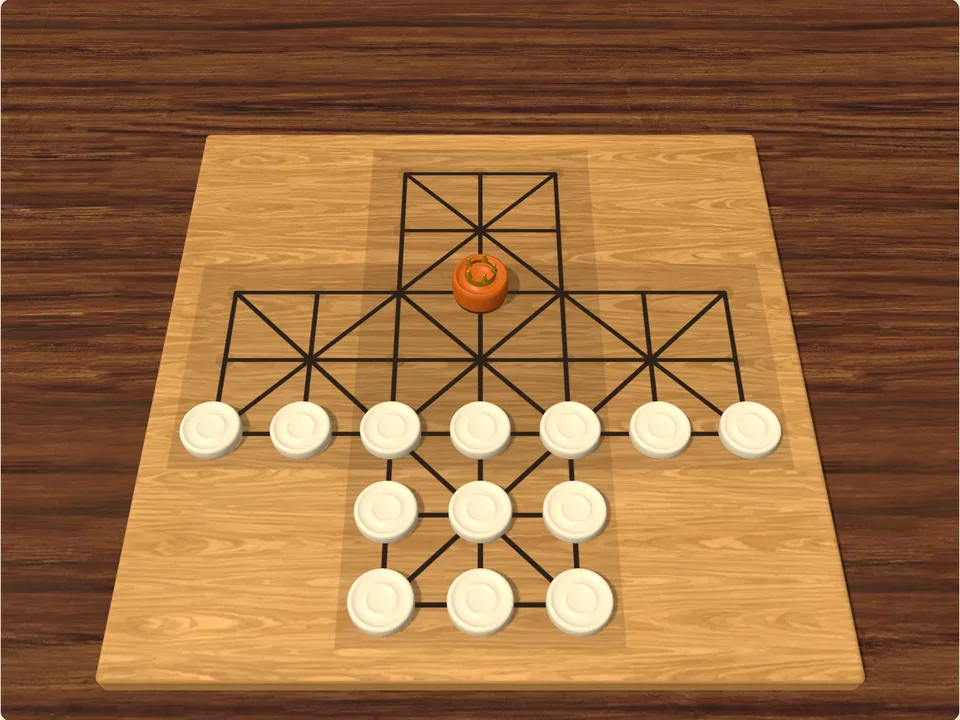
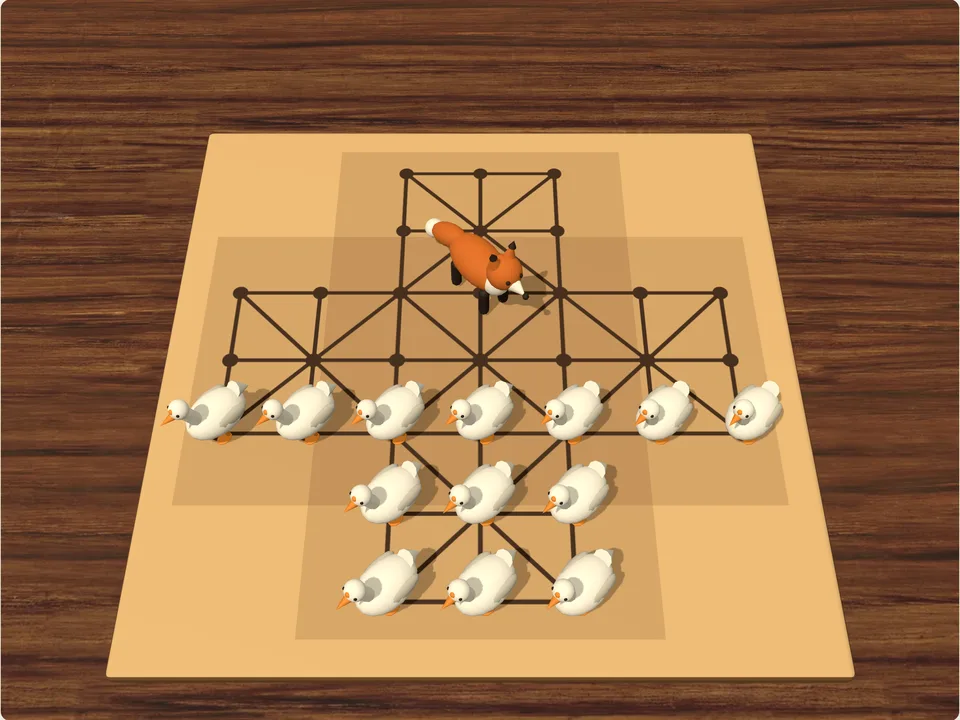
Fox and geese: modelled geese and a fox on a board of their own
Claude-Session: https://claude.ai/code/session_01Uedx1uYtd54DPXXtQh77nN

diff --git a/src/games/foxgeese/view.ts b/src/games/foxgeese/view.ts
@@ -1,0 +1,204 @@
+import * as T from "three";
+import { planks, block } from "../../engine/scene-utils";
+import type { Marks } from "../points/view";
+import { TableView, ringMesh, type Spot, type TableSubject } from "../table/view";
+import { LINKS, POINTS, type State } from "./rules";
+
+const STEP = 1.0;
+export const GOOSE = "#f4f1e8",
+  FOX = "#d2691e";
+export const FOX_SUBJECT: TableSubject = { half: 4.0, halfZ: 4.0, height: 0.9, lookY: 0, tilt: 1.0 };
+/** Where a point of the cross lies on the board. */
+export const pointAt = (i: number) => ({ x: (POINTS[i].col - 3) * STEP, z: (POINTS[i].row - 3) * STEP });
+/** The board's top: the cross a shade darker than the wood round it, its lines and points burnt in. */
+function boardTexture() {
+  const size = 1024,
+    c = document.createElement("canvas");
+  c.width = c.height = size;
+  const ctx = c.getContext("2d")!,
+    u = size / 7.6,
+    px = (i: number) => {
+      const p = pointAt(i);
+      return [size / 2 + (p.x / STEP) * u, size / 2 + (p.z / STEP) * u] as [number, number];
+    };
+  ctx.fillStyle = "#d9b27c";
+  ctx.fillRect(0, 0, size, size);
+  ctx.fillStyle = "rgba(90, 52, 22, 0.16)";
+  ctx.fillRect(size / 2 - 1.5 * u - u * 0.4, size / 2 - 3 * u - u * 0.4, 3 * u + u * 0.8, 6 * u + u * 0.8);
+  ctx.fillRect(size / 2 - 3 * u - u * 0.4, size / 2 - 1.5 * u - u * 0.4, 6 * u + u * 0.8, 3 * u + u * 0.8);
+  ctx.strokeStyle = "#3a2414";
+  ctx.lineWidth = 7;
+  ctx.lineCap = "round";
+  for (const [a, b] of LINKS) {
+    ctx.beginPath();
+    ctx.moveTo(...px(a));
+    ctx.lineTo(...px(b));
+    ctx.stroke();
+  }
+  ctx.fillStyle = "#3a2414";
+  POINTS.forEach((_, i) => {
+    ctx.beginPath();
+    ctx.arc(...px(i), 13, 0, Math.PI * 2);
+    ctx.fill();
+  });
+  const t = new T.CanvasTexture(c);
+  t.colorSpace = T.SRGBColorSpace;
+  t.anisotropy = 8;
+  return t;
+}
+/** A cross of 33 points cut into a board on a table, with thirteen modelled geese and a fox. */
+export class FoxGeeseView extends TableView<State> {
+  private geese: T.Group[] = [];
+  private fox: T.Group;
+  private rings: T.Mesh[] = [];
+  private cursor: T.Mesh;
+  private chosen: T.Mesh;
+  constructor(host: HTMLElement, quality: "high" | "low") {
+    super(host, quality, "#4b3626");
+    this.daylight("#fff6e0", "#4a3a2c", "#fff1d6", 7);
+    const table = this.add(new T.PlaneGeometry(90, 90), this.standard(planks(11, (r) => this.own(r))), 0, -0.2, 0);
+    table.rotation.x = -Math.PI / 2;
+    table.castShadow = false;
+    const edge = this.standard({ color: "#6a4a2c", roughness: 0.6 });
+    this.add(block(7.6 * STEP, 0.2, 7.6 * STEP, 0.08), [edge, edge, this.standard({ map: this.own(boardTexture()), roughness: 0.7 }), edge, edge, edge], 0, -0.1, 0);
+    // Larger than life on the board, and turned three-quarters toward me so that their faces are seen.
+    for (let k = 0; k < 13; k++) {
+      const goose = this.goose();
+      goose.scale.setScalar(1.5);
+      goose.rotation.y = Math.PI - 0.75;
+      this.geese.push(goose);
+    }
+    this.fox = this.vixen();
+    this.fox.scale.setScalar(1.65);
+    this.fox.rotation.y = 0.65;
+    this.scene.add(...this.geese, this.fox);
+    const own = <R extends { dispose(): void }>(r: R) => this.own(r);
+    POINTS.forEach(() => {
+      const ring = ringMesh(own, 0.32, 0.4, "#ffd24a");
+      this.rings.push(ring);
+      this.scene.add(ring);
+    });
+    this.cursor = ringMesh(own, 0.42, 0.48, "#ffffff");
+    this.chosen = ringMesh(own, 0.32, 0.42, "#ff8a3c");
+    this.scene.add(this.cursor, this.chosen);
+    this.begin();
+  }
+  private part(group: T.Group, geometry: T.BufferGeometry, material: T.Material, x: number, y: number, z: number, sx = 1, sy = 1, sz = 1) {
+    const mesh = this.add(geometry, material, x, y, z, group);
+    mesh.scale.set(sx, sy, sz);
+    return mesh;
+  }
+  /** A white goose standing, facing up the board (−z): a round body, a long neck, an orange beak and feet. */
+  private goose() {
+    const g = new T.Group(),
+      down = this.standard({ color: "#f6f3ea", roughness: 0.85 }),
+      grey = this.standard({ color: "#c9c4b8", roughness: 0.85 }),
+      orange = this.standard({ color: "#e8892a", roughness: 0.55 }),
+      dark = this.standard({ color: "#1d1b19", roughness: 0.4 }),
+      part = (...args: [T.BufferGeometry, T.Material, number, number, number, number?, number?, number?]) => this.part(g, ...args);
+    part(new T.SphereGeometry(0.2, 18, 12), down, 0, 0.26, 0.04, 0.85, 0.75, 1.25);
+    // Folded wings, a little greyer, and a short raised tail.
+    for (const side of [-1, 1]) part(new T.SphereGeometry(0.12, 12, 8), grey, side * 0.12, 0.29, 0.08, 0.4, 0.6, 1.3);
+    part(new T.ConeGeometry(0.07, 0.16, 10), down, 0, 0.32, 0.3).rotation.x = Math.PI / 2 + 0.6;
+    const neck = part(new T.CapsuleGeometry(0.05, 0.2, 4, 10), down, 0, 0.47, -0.15);
+    neck.rotation.x = -0.35;
+    part(new T.SphereGeometry(0.075, 14, 10), down, 0, 0.62, -0.2);
+    part(new T.ConeGeometry(0.035, 0.12, 10), orange, 0, 0.6, -0.31).rotation.x = -Math.PI / 2;
+    part(new T.SphereGeometry(0.025, 8, 6), orange, 0, 0.65, -0.25);
+    for (const side of [-1, 1]) {
+      part(new T.SphereGeometry(0.014, 8, 6), dark, side * 0.05, 0.64, -0.24);
+      part(new T.CylinderGeometry(0.018, 0.018, 0.12, 6), orange, side * 0.07, 0.07, 0.04);
+      part(new T.SphereGeometry(0.06, 10, 6), orange, side * 0.07, 0.012, -0.0, 0.8, 0.2, 1.1);
+    }
+    return g;
+  }
+  /** A red fox standing, facing down the board (+z): pointed ears, a white muzzle and chest, dark socks, a white-tipped brush. */
+  private vixen() {
+    const g = new T.Group(),
+      red = this.standard({ color: "#cf6a24", roughness: 0.8 }),
+      white = this.standard({ color: "#f3eee2", roughness: 0.85 }),
+      dark = this.standard({ color: "#2a1d16", roughness: 0.6 }),
+      part = (...args: [T.BufferGeometry, T.Material, number, number, number, number?, number?, number?]) => this.part(g, ...args);
+    part(new T.SphereGeometry(0.2, 18, 12), red, 0, 0.36, -0.02, 0.8, 0.75, 1.45);
+    part(new T.SphereGeometry(0.12, 14, 10), white, 0, 0.36, 0.2, 0.9, 1, 0.8);
+    part(new T.SphereGeometry(0.13, 16, 12), red, 0, 0.55, 0.28);
+    // The muzzle: a white cone with a black nose.
+    part(new T.ConeGeometry(0.075, 0.18, 12), white, 0, 0.52, 0.43).rotation.x = Math.PI / 2;
+    part(new T.SphereGeometry(0.025, 8, 6), dark, 0, 0.52, 0.52);
+    for (const side of [-1, 1]) {
+      const ear = part(new T.ConeGeometry(0.055, 0.15, 8), red, side * 0.075, 0.7, 0.25);
+      ear.rotation.z = -side * 0.25;
+      part(new T.ConeGeometry(0.03, 0.06, 8), dark, side * 0.09, 0.77, 0.255).rotation.z = -side * 0.25;
+      part(new T.SphereGeometry(0.018, 8, 6), dark, side * 0.055, 0.58, 0.39);
+      for (const along of [-0.18, 0.16]) part(new T.CapsuleGeometry(0.04, 0.2, 4, 8), dark, side * 0.09, 0.14, along);
+    }
+    // The brush, curving down behind, with its white tip.
+    const brush = part(new T.SphereGeometry(0.1, 14, 10), red, 0, 0.32, -0.38, 0.9, 0.9, 2.2);
+    brush.rotation.x = -0.5;
+    part(new T.SphereGeometry(0.075, 12, 8), white, 0, 0.21, -0.58);
+    return g;
+  }
+  protected subject() {
+    return FOX_SUBJECT;
+  }
+  protected spots(): Spot[] {
+    return POINTS.map((_, i) => ({ ...pointAt(i), y: 0.3, r: 0.45, point: i }));
+  }
+  private stand(piece: T.Object3D, point: number) {
+    const p = pointAt(point);
+    piece.position.set(p.x, 0, p.z);
+    piece.visible = true;
+  }
+  protected place(state: State) {
+    this.geese.forEach((goose, k) => {
+      if (k < state.geese.length) this.stand(goose, state.geese[k]);
+      else goose.visible = false;
+    });
+    this.stand(this.fox, state.fox);
+  }
+  protected animate(before: State, state: State) {
+    const last = state.last;
+    if (!last || state.ply !== before.ply + 1) return false;
+    const { from, to, taken } = last,
+      piece = before.fox === from ? this.fox : this.geese[before.geese.indexOf(from)],
+      a = pointAt(from),
+      b = pointAt(to);
+    if (!piece) return false;
+    // A goose waddles across in two little hops; the fox bounds, higher when it jumps.
+    const high = taken !== null ? 0.9 : 0.3,
+      hops = piece === this.fox ? 1 : 2;
+    this.tween(0, taken !== null ? 520 : 400, (p) => {
+      piece.position.set(a.x + (b.x - a.x) * p, Math.abs(Math.sin(p * Math.PI * hops)) * high, a.z + (b.z - a.z) * p);
+      if (p === 1) this.onContact();
+    });
+    // The goose jumped over is carried off the board.
+    if (taken !== null) {
+      const goose = this.geese[before.geese.indexOf(taken)],
+        c = pointAt(taken);
+      if (goose)
+        this.tween(260, 520, (p) => {
+          goose.position.set(c.x + p * 5.5 * Math.sign(c.x || 1), Math.sin(p * Math.PI) * 1.2, c.z);
+          goose.scale.setScalar(1.5 * (1 - p * 0.6));
+          if (p === 1) {
+            goose.visible = false;
+            goose.scale.setScalar(1.5);
+          }
+        });
+    }
+    return true;
+  }
+  protected mark(marks: Marks) {
+    this.rings.forEach((ring, i) => {
+      const p = pointAt(i);
+      ring.position.set(p.x, 0.012, p.z);
+      ring.visible = marks.targets.includes(i) || marks.movable.includes(i);
+    });
+    for (const [ring, point] of [
+      [this.cursor, marks.cursor],
+      [this.chosen, marks.selected],
+    ] as [T.Mesh, number | null][]) {
+      ring.visible = point !== null && point >= 0 && point < POINTS.length;
+      if (ring.visible) ring.position.set(pointAt(point!).x, 0.02, pointAt(point!).z);
+    }
+  }
+}

diff --git a/tests/e2e/four-games.spec.ts b/tests/e2e/four-games.spec.ts
@@ -2,7 +2,7 @@ import { test, expect, type Page } from "@playwright/test";
 import { PerspectiveCamera, Vector3 } from "three";
 import { selectGame } from "./library";
 import { FOV, cameraDistance, type Subject } from "../../src/engine/camera";
-import { foxGeeseBoard } from "../../src/games/foxgeese/board";
+import { FOX_SUBJECT, pointAt } from "../../src/games/foxgeese/view";
 import { indexOf } from "../../src/games/foxgeese/rules";
 import { taflBoard } from "../../src/games/tafl/board";
 import { UR_SUBJECT, DICE } from "../../src/games/ur/view";
@@ -43,11 +43,10 @@ async function tap(page: Page, subject: Subject & { tilt: number }, x: number, z
 
 test("fox and geese: a goose steps forward and the computer's fox answers", async ({ page }, info) => {
   const mobile = info.project.name === "mobile",
-    board = foxGeeseBoard("geese"),
     errors = await sit(page, "여우와 거위", "ai", "geese");
   await ready(page);
   const go = async (point: number) => {
-    await tap(page, board.subject, board.points[point].x, board.points[point].z, mobile);
+    await tap(page, FOX_SUBJECT, pointAt(point).x, pointAt(point).z, mobile, 0.3);
     await page.waitForTimeout(150);
   };
   // The goose at the left end of the middle row's lower line steps up.

diff --git a/src/games/foxgeese/config.ts b/src/games/foxgeese/config.ts
@@ -1,13 +1,17 @@
 import { part, steps, notes, table } from "../../ui/guide";
 import type { PointConfig } from "../../ui/point-game";
 import { FEWEST, STALL_LIMIT, STAY, foxGeese, type State } from "./rules";
-import { FOX, GOOSE, foxGeeseBoard } from "./board";
+import { FOX, GOOSE, FoxGeeseView, pointAt } from "./view";
+import { POINTS } from "./rules";
 
 export const foxGeeseConfig: PointConfig<State> = {
   game: foxGeese,
   contact: (sound) => sound.wood(4),
   noPanel: true,
-  board: foxGeeseBoard,
+  // Modelled geese and a fox (the user asked), on a board of their own.
+  view: (host, quality) => new FoxGeeseView(host, quality),
+  colors: [GOOSE, FOX],
+  keyPoints: () => POINTS.map((_, i) => pointAt(i)),
   showMovable: false,
   variants: [
     { value: "geese", label: "거위 (열세 마리)" },

diff --git a/AGENTS.md b/AGENTS.md
@@ -160,6 +160,6 @@
 - Go-stop, asked by the user after it was first made: 흔들기 and 폭탄 (phase `declare` with `offer`, `YES`/`NO` tools; each doubles through `shakes`; a bomb takes all four with a chaff and leaves two turns of only turning the pile, `dummies`, played by `FLIP` or a tap on the pile), and two bonus cards (`BONUS2` 48, `BONUS3` 49, month 0, painted in code): from the hand taken at once with a chaff of the other's and a card drawn in its place, the turn going on; turned from the pile, taken and the next turned; dealt to the floor, taken by the first player and replaced in place (`opening.swaps`). A new game is dealt visibly from the pile (`sync` in `gostop/view.ts`, four to the floor, five to the computer, five to me, twice; cards wait in the pile through `fly(..., hold)` so that a resize cannot lay them out early). On my turn a blue edge marks the cards that take something now (`capturing`) and a grey one a pair sure to come back because the other two of its month are taken (`sure`); three of a month are held together in the hand (`bundles`, `BUNDLE_STEP`) and a bomb's three carry a bomb picture. The computer always shakes and bombs and plays a bonus card at once.
 - Go-stop, asked by the user after that: two floor cards of a month are taken without asking only when both are plain chaff (`plain`); otherwise the player chooses, for the card turned from the pile as well (phase `choose` with `resume`: the turn as it began and what was played, carried out again with the choice by `turnOver(..., flipChoice)`; meanwhile the table shows the played and turned cards on the floor). The choice is offered in a bubble over the table showing the two cards apart (`.gs-bubble`, in the view's own `.gs-layer`; a tap there goes through `onPick`). 자뻑 takes two chaff; a bonus card brings a chaff however it is taken; the winner of a game is the next game's 선 (`leader` in the `gostop` adapter, memory only; a 나가리 leaves it); September's animal (`GUKJIN`) is offered once as a double chaff when chaff begins to score (phase `gukjin`, `AS_PI`/`AS_YEOL`; `points(state, side)` counts it as chosen). Sets made (`sets`: 홍단, 청단, 초단, 고도리, 삼광, 비삼광, 사광, 오광) are called out at the seat that made them (`last.achieved`, `.gs-call`), each seat's 피박, 광박 and 멍박 as they stand (`danger`) are red tags beside its hand (`.gs-seat`), and each side's shakes and bombs are drawn as pictures under its score on its tablet. At the end a receipt prints the reckoning (`result.lines`, `.gs-receipt` at the right of the table). All of this lettering is decoration (aria-hidden) and off while `capturing()`; the unseen panel's tally carries the doubles for readers.
 - The go-stop blanket lies on the floor of an ondol room (the user asked): `ondol` in `src/engine/scenery.ts` (yellow oiled-paper floor in squares, hanji walls on a skirting, two lattice sliding doors, a lacquered chest, red floor cushions, a folded quilt), all painted in code; it stands clear of the blanket.
-- Fox and geese (`foxgeese/`, id `fox-and-geese`) and hnefatafl (`tafl/`, titled 바이킹 체스, id `hnefatafl`) are point-board `PointGame`s (`BoardSpec` in `board.ts`, the shared search and screen), with the player's side chosen as a variant like hare and hounds (`herd`, `raider` say which side plays the geese or the attackers; `colorsOf`, `sidesOf`, and the board's `colors` follow it). The fox and the king are the `crowned` (taller) pieces. A fox that has jumped may jump on or stop (`chain`, the `STAY` tool). Hnefatafl's throne and corners take only the king, empty throne and corners are hostile, the king is taken on four sides (three and the throne), never at the edge, and a game is drawn at `LIMIT` moves.
+- Fox and geese (`foxgeese/`, id `fox-and-geese`) and hnefatafl (`tafl/`, titled 바이킹 체스, id `hnefatafl`) are `PointGame`s on the shared search and screen; hnefatafl is drawn from a `BoardSpec` (`tafl/board.ts`), fox and geese by a view of its own (`FoxGeeseView`: the user asked for the pieces to be small modelled geese and a fox, turned three-quarters toward the player; a goose taken is carried off the board), with the player's side chosen as a variant like hare and hounds (`herd`, `raider` say which side plays the geese or the attackers; `colorsOf`, `sidesOf`, and the board's `colors` follow it). The king is the `crowned` (taller) piece. A fox that has jumped may jump on or stop (`chain`, the `STAY` tool). Hnefatafl's throne and corners take only the king, empty throne and corners are hostile, the king is taken on four sides (three and the throne), never at the edge, and a game is drawn at `LIMIT` moves.
 - The Royal Game of Ur (`ur/`, id `royal-game-of-ur`) follows Finkel's rules on a board of three inlaid blocks drawn in code (`UrView`): four tetrahedral dice (`THROW`, tapped on the table or by the `onBoard` tool), seven pieces a side, progress 0 waiting, 1–14 on the way (5–12 shared), 15 off by an exact throw; rosettes (4, 8, 14) throw again and 8 is safe. Its computer (`choosePiece`) reads only the board and the throw. It is `noUndo`.
 - Tents (`tents/`, id `tents`) is a `puzzle` like the building puzzle: a random pitch of tents with a tree beside each, kept only when `solutions` (rows filled with their number of tents among squares beside trees, apart from each other, columns bounded, a full pitch matched to the trees by `paired`) finds one answer. A tap turns a square nothing → tent → grass mark → nothing; `put(cell, mark)` is the hint's move. Its field, trees, tents and tufts are modelled in code.

diff --git a/README.md b/README.md
@@ -468,7 +468,7 @@ CHROMIUM_PATH=/usr/bin/chromium npm run test:e2e
 
 네 게임을 더했습니다. 모두 56종입니다.
 
-- **여우와 거위 (Fox and Geese)**: 점 33개가 이어진 십자 모양 판. 거위 13마리가 먼저 두고 앞이나 옆으로만 한 칸씩 가며, 여우는 어느 쪽으로든 한 칸 가거나 거위를 뛰어넘어 잡고 이어서 뛸 수 있습니다(멈추려면 **그만 뛰기**). 여우를 가두면 거위가, 거위를 5마리 이하로 줄이거나 거위가 갈 곳이 없거나 20번 잇달아 옆으로만 움직이면 여우가 이깁니다. 내 말(거위·여우)을 고르며 여우를 고르면 컴퓨터가 먼저 둡니다(`foxgeese/rules.ts`의 `herd`). 점판 화면(`BoardSpec`)과 공용 탐색을 씁니다.
+- **여우와 거위 (Fox and Geese)**: 점 33개가 이어진 십자 모양 판. 거위 13마리가 먼저 두고 앞이나 옆으로만 한 칸씩 가며, 여우는 어느 쪽으로든 한 칸 가거나 거위를 뛰어넘어 잡고 이어서 뛸 수 있습니다(멈추려면 **그만 뛰기**). 여우를 가두면 거위가, 거위를 5마리 이하로 줄이거나 거위가 갈 곳이 없거나 20번 잇달아 옆으로만 움직이면 여우가 이깁니다. 내 말(거위·여우)을 고르며 여우를 고르면 컴퓨터가 먼저 둡니다(`foxgeese/rules.ts`의 `herd`). 말은 코드로 빚은 작은 거위와 여우 모형이며(`foxgeese/view.ts`), 잡힌 거위는 판 밖으로 날려 보냅니다. 공용 탐색을 씁니다.
 - **바이킹 체스 (Hnefatafl)**: 11×11 판에서 공격 24개가 먼저 두고, 왕과 방어 12개가 왕을 귀퉁이로 빼내려 합니다. 모든 말은 차처럼 가로세로로 가고, 왕좌와 귀퉁이에는 왕만 섭니다. 두 적 사이에 끼면 잡히고(귀퉁이와 빈 왕좌는 적으로 침), 왕은 네 방향이 공격 말(또는 왕좌)로 막혀야 잡힙니다. 300수가 지나면 비깁니다. 내 쪽(방어·공격)을 고릅니다(`tafl/rules.ts`의 `raider`). 왕은 왕관을 쓴 큰 말입니다.
 - **우르 왕실 게임 (Royal Game of Ur)**: 메소포타미아의 경주 놀이를 어빙 핑컬의 복원 규칙으로 옮겼습니다. 사면체 주사위 네 개(0~4), 말 일곱 개씩. 내 쪽 줄 네 칸 → 함께 쓰는 가운데 줄 여덟 칸 → 내 쪽 줄 두 칸 → 판 밖. 로제트에 서면 한 번 더 던지고, 가운데 줄에서 상대 말을 잡으면 처음으로 돌려보내며, 가운데 로제트의 말은 잡히지 않습니다. 판은 세 덩어리의 상감 판으로, 칸 무늬(로제트·눈·다섯 점·체크)와 말·주사위 모두 코드로 그렸습니다(`ur/`).
 - **텐트 치기 (Tents)**: 나무마다 옆(위아래좌우)에 텐트를 하나씩, 텐트끼리는 대각선으로도 닿지 않게, 가장자리 숫자는 그 줄의 텐트 수. 칸을 누를 때마다 텐트 → 풀밭 표시 → 빈칸. 문제는 무작위로 치고 숫자로 답이 하나만 남을 때만 냅니다(`tents/rules.ts`의 `solutions`, 나무와 텐트의 짝짓기는 `paired`). 5×5부터 9×9까지 다섯 단계, 닿은 텐트는 빨갛게, 숫자판은 맞으면 초록·넘치면 빨강입니다. 퍼즐 판을 씁니다.
